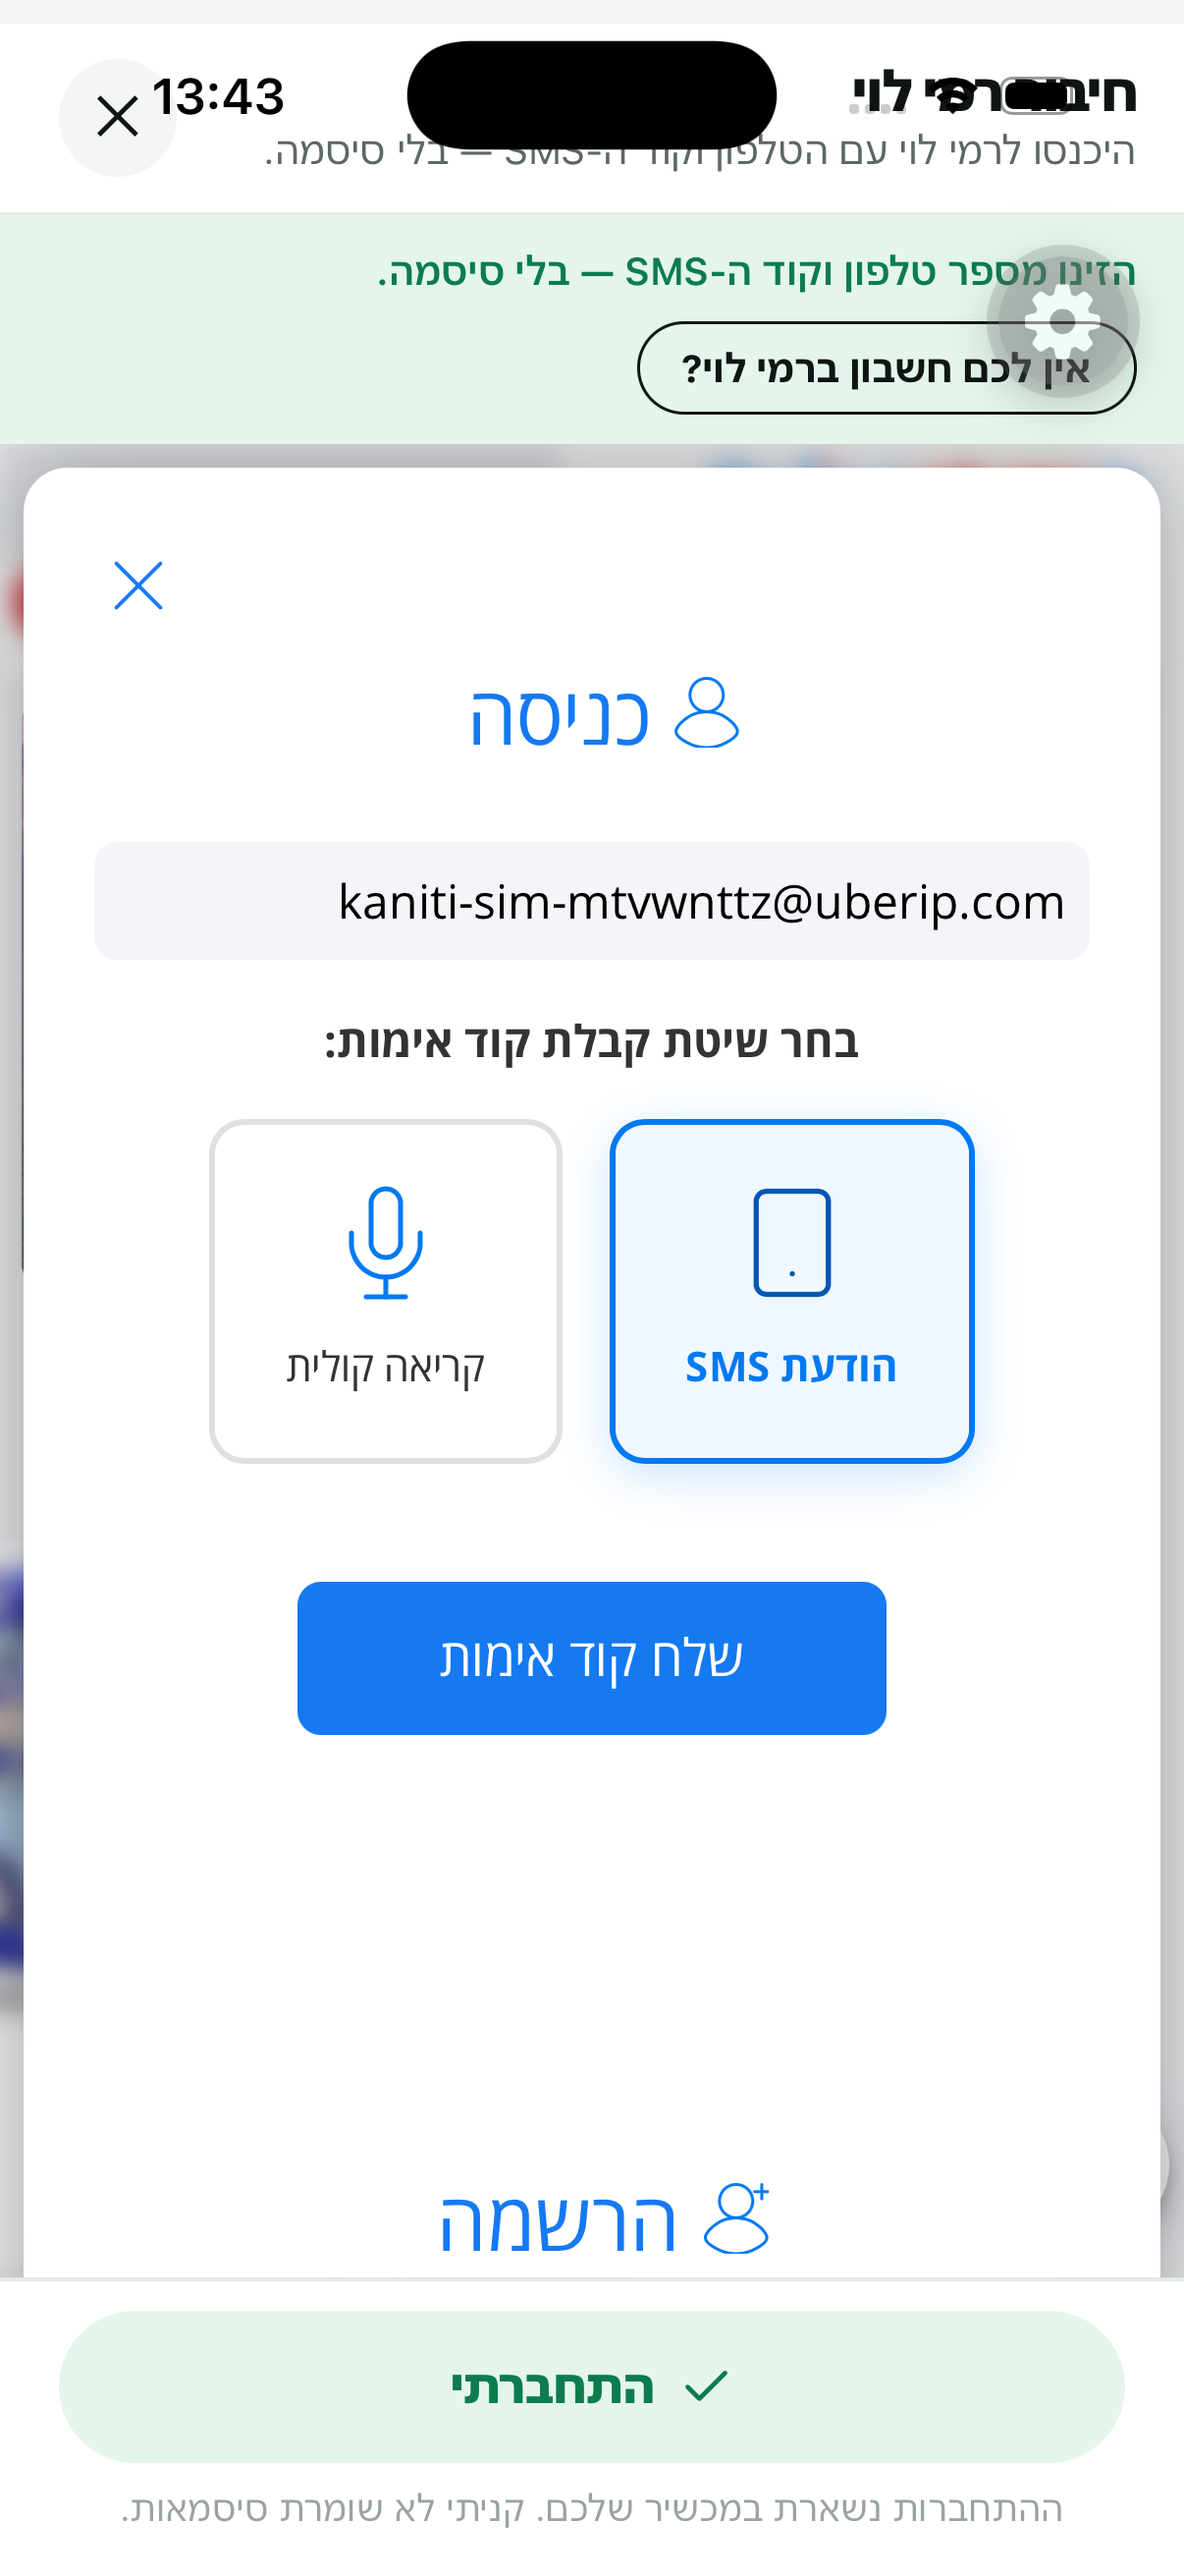
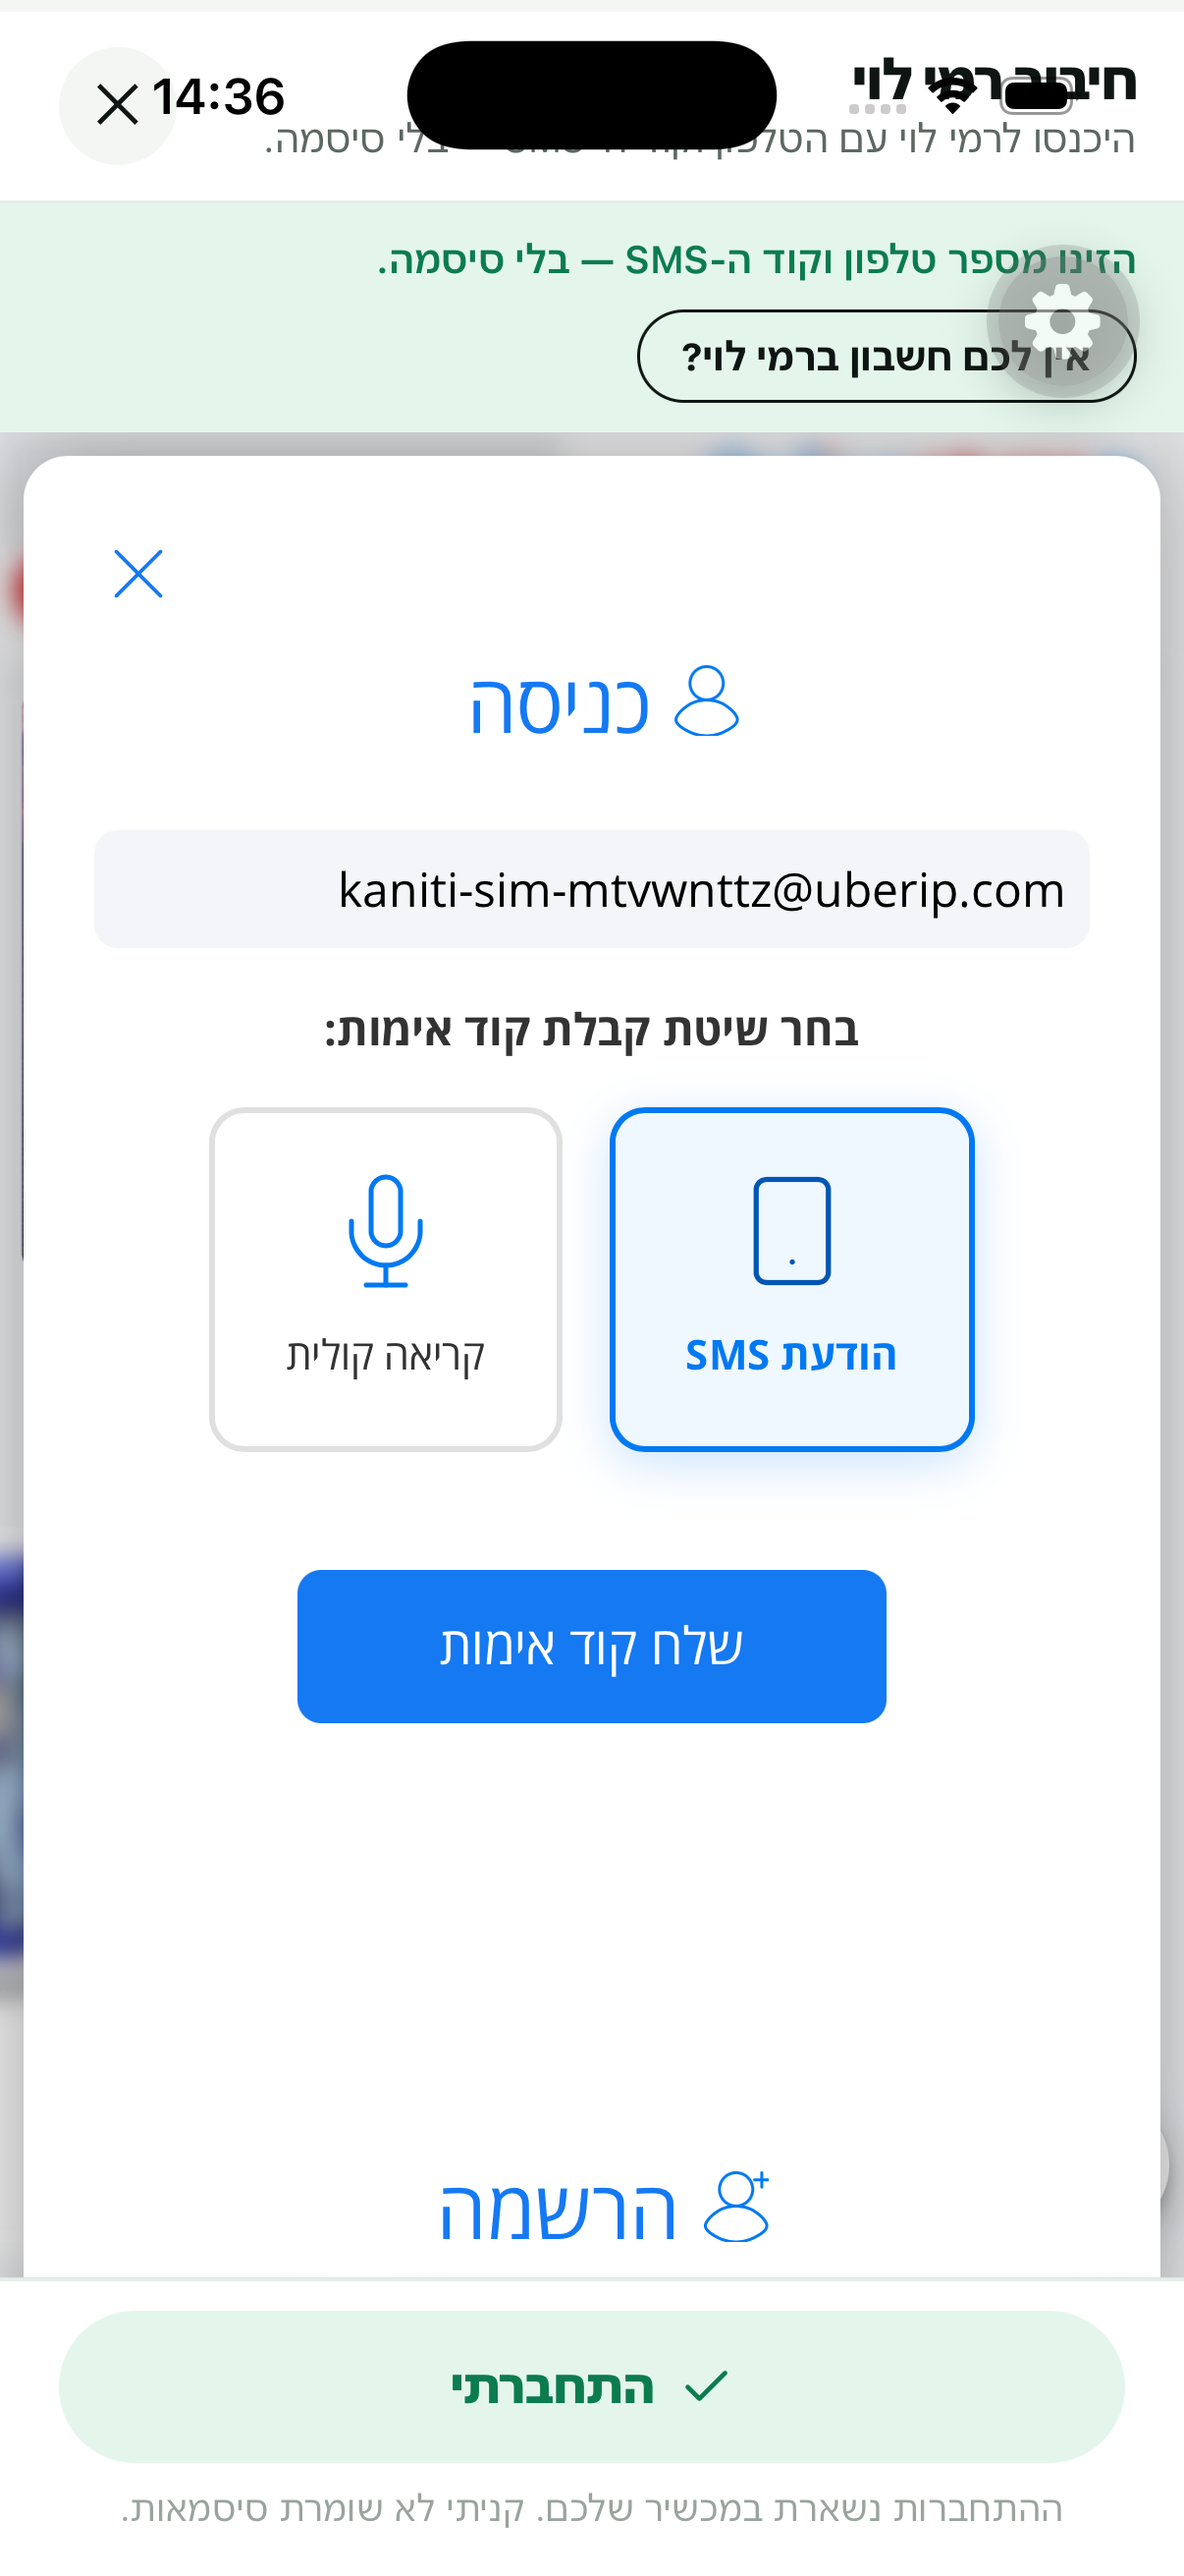
Simulator loop: Metro without CI=1 (watch mode was off, bundles went stale), narrower watch folders, store/order modals below the status bar, connect flows scroll only when the row is off screen
Claude-Session: https://claude.ai/code/session_0149qpRhxvNuTQ9WBA9pcsvf

diff --git a/apps/mobile/src/screens/StoreLink.tsx b/apps/mobile/src/screens/StoreLink.tsx
@@ -169,8 +169,8 @@ export function StoreLink({ storeId, api, householdId, onClose, onLinked }: { st
   const insets = useSafeAreaInsets();
   return (
     <Modal visible animationType="slide" onRequestClose={onClose} presentationStyle="fullScreen">
-      {/* A full-screen modal starts under the clock: keep the close bar below the status bar. */}
-      <View style={[s.screen, { paddingTop: insets.top + 4 }]}>
+      {/* A full-screen modal starts under the clock; the app provider's top inset keeps the close bar below it. */}
+      <View style={[s.screen, { paddingTop: Math.max(insets.top, 20) + 4 }]}>
         {/* Solid close bar, always on top of the WebView. */}
         <View style={{ flexDirection: rtl ? 'row-reverse' : 'row', alignItems: 'center', justifyContent: 'space-between', paddingHorizontal: 16, paddingVertical: 12, borderBottomWidth: 1, borderColor: t.line, backgroundColor: t.card, zIndex: 10 }}>
           <View style={{ flex: 1 }}>

diff --git a/apps/mobile/metro.config.js b/apps/mobile/metro.config.js
@@ -6,9 +6,10 @@ const { getDefaultConfig } = require('expo/metro-config');
 const path = require('path');
 const root = path.resolve(__dirname, '../..');
 const config = getDefaultConfig(__dirname);
-// Watch the whole monorepo root so the root App.js shim and workspace
-// packages all resolve.
-config.watchFolders = [root];
+// Only what the app resolves outside its own tree: the hoisted node_modules and
+// the workspace packages. Watching the whole root (terraform state, api bundles,
+// price-file labs) overwhelms the watcher and edits under src/ go unnoticed.
+config.watchFolders = [path.resolve(root, 'node_modules'), path.resolve(root, 'packages'), path.resolve(root, 'services')];
 config.resolver.nodeModulesPaths = [path.resolve(__dirname, 'node_modules'), path.resolve(root, 'node_modules')];
 config.resolver.disableHierarchicalLookup = true;
 config.resolver.sourceExts = [...config.resolver.sourceExts, 'ts', 'tsx'];

diff --git a/apps/mobile/src/screens/OrderOnDevice.tsx b/apps/mobile/src/screens/OrderOnDevice.tsx
@@ -129,7 +129,8 @@ export function OrderOnDevice({ storeId, lines, api, householdId, onClose, onDon
   const insets = useSafeAreaInsets();
   return (
     <Modal visible animationType="slide" onRequestClose={onClose} presentationStyle="fullScreen">
-      <View style={[s.screen, { paddingTop: insets.top + 4 }]}>
+      {/* A full-screen modal starts under the clock; the app provider's top inset keeps the close bar below it. */}
+      <View style={[s.screen, { paddingTop: Math.max(insets.top, 20) + 4 }]}>
         <View style={{ flexDirection: rtl ? 'row-reverse' : 'row', alignItems: 'center', justifyContent: 'space-between', paddingHorizontal: 16, paddingVertical: 12, borderBottomWidth: 1, borderColor: t.line, backgroundColor: t.card, zIndex: 10 }}>
           <View style={{ flex: 1 }}>
             <Text style={[s.title, { fontSize: 18, textAlign: rtl ? 'right' : 'left' }]} testID="order-title">{title}</Text>

diff --git a/apps/mobile/src/lib/config.ts b/apps/mobile/src/lib/config.ts
@@ -31,4 +31,4 @@ export const config = {
 };
 
 /** Build stamp shown in Me and sent with every store report, so "which code is the phone running" is never a guess. */
-export const BUILD = '2026-09-11.1349';
+export const BUILD = '2026-09-11.1445';

diff --git a/apps/mobile/maestro/README.md b/apps/mobile/maestro/README.md
@@ -20,6 +20,11 @@ E2E env creds baked in), reloads the app, then drives: auto sign-in → create t
 (name + verified address) → walk List/Orders/Me tabs → connect a store (its own login opens in
 the WebView with the family's e-mail prefilled). Screenshots land in `maestro/shots/`.
 
+Metro for the simulator runs on port 8082 without `CI=1`: in CI mode Metro disables watch
+mode and keeps serving the bundle it built at start-up, so edits under `src/` never reach the
+app (the build stamp in the Me header tells you which bundle is running). `metro.config.js`
+watches only `node_modules`, `packages` and `services`, not the whole repo.
+
 Requirements installed on this Mac: Xcode 26 + iOS 26.5 simulator runtime, CocoaPods (brew),
 OpenJDK (brew, for Maestro), Maestro (~/.maestro). The test Cognito user is in `~/.kaniti/e2e.env`.
 No Apple Developer account is needed for the simulator.
